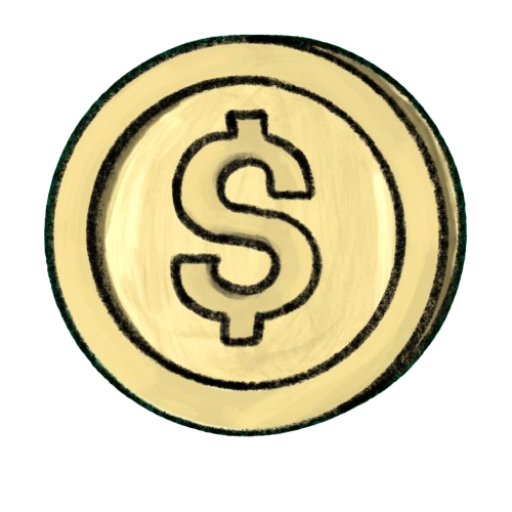
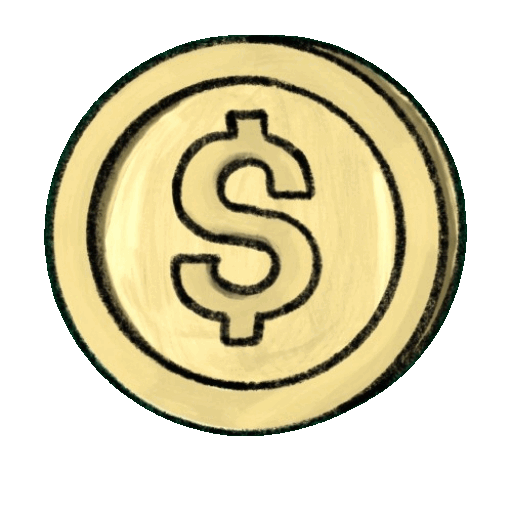
perf: eliminate first-navigation jank and self-host fonts
Port of garretpatten.com#75 (perf/first-load) to this site:

- Remove per-section soft-enter from About/Books; navigation now animates
  once via route-swap (shortened 420ms -> 260ms, 12px -> 8px shift)
- Self-host Libre Baskerville (400/700/italic) + JetBrains Mono woff2
  (latin subset, ~87KB total) with font-display swap; preload
  Libre Baskerville + JetBrains Mono; drop the render-blocking Google
  Fonts stylesheet and preconnects
- Compress landing hero 4.5MB PNG -> 66KB 960x790 WebP with intrinsic
  dimensions; palette-reduce android-chrome-512 icon 304KB -> 83KB
- Route views were already statically imported, so no lazy-chunk fetch
  existed to eliminate here; no CSP file exists, so no CSP change needed

diff --git a/src/assets/css/main.css b/src/assets/css/main.css
@@ -2,6 +2,45 @@
 @tailwind components;
 @tailwind utilities;
 
+/* Self-hosted fonts (latin subset, woff2) — replaces the render-blocking
+   Google Fonts stylesheet. Libre Baskerville 400 and 700 are served by
+   Google from the same latin file; JetBrains Mono is variable-weight. */
+@font-face {
+  font-family: "Libre Baskerville";
+  font-style: normal;
+  font-weight: 400 700;
+  font-display: swap;
+  src: url("/fonts/libre-baskerville-latin.woff2") format("woff2");
+  unicode-range:
+    U+0000-00FF, U+0131, U+0152-0153, U+02BB-02BC, U+02C6, U+02DA, U+02DC,
+    U+0304, U+0308, U+0329, U+2000-206F, U+20AC, U+2122, U+2191, U+2193, U+2212,
+    U+2215, U+FEFF, U+FFFD;
+}
+
+@font-face {
+  font-family: "Libre Baskerville";
+  font-style: italic;
+  font-weight: 400;
+  font-display: swap;
+  src: url("/fonts/libre-baskerville-italic-latin.woff2") format("woff2");
+  unicode-range:
+    U+0000-00FF, U+0131, U+0152-0153, U+02BB-02BC, U+02C6, U+02DA, U+02DC,
+    U+0304, U+0308, U+0329, U+2000-206F, U+20AC, U+2122, U+2191, U+2193, U+2212,
+    U+2215, U+FEFF, U+FFFD;
+}
+
+@font-face {
+  font-family: "JetBrains Mono";
+  font-style: normal;
+  font-weight: 100 800;
+  font-display: swap;
+  src: url("/fonts/jetbrains-mono-latin.woff2") format("woff2");
+  unicode-range:
+    U+0000-00FF, U+0131, U+0152-0153, U+02BB-02BC, U+02C6, U+02DA, U+02DC,
+    U+0304, U+0308, U+0329, U+2000-206F, U+20AC, U+2122, U+2191, U+2193, U+2212,
+    U+2215, U+FEFF, U+FFFD;
+}
+
 :root {
   --motion-ease-standard: cubic-bezier(0.22, 1, 0.36, 1);
   --motion-ease-emphasized: cubic-bezier(0.2, 0, 0, 1);
@@ -99,18 +138,18 @@
   .route-swap-enter-active,
   .route-swap-leave-active {
     transition:
-      opacity 420ms var(--motion-ease-standard),
-      transform 420ms var(--motion-ease-standard);
+      opacity 260ms var(--motion-ease-standard),
+      transform 260ms var(--motion-ease-standard);
   }
 
   .route-swap-enter-from {
     opacity: 0;
-    transform: translateY(12px);
+    transform: translateY(8px);
   }
 
   .route-swap-leave-to {
     opacity: 0;
-    transform: translateY(-10px);
+    transform: translateY(-8px);
   }
 
   .menu-enter-active,

diff --git a/index.html b/index.html
@@ -15,11 +15,19 @@
     />
     <meta property="og:type" content="website" />
     <meta name="color-scheme" content="dark" />
-    <link rel="preconnect" href="https://fonts.googleapis.com" />
-    <link rel="preconnect" href="https://fonts.gstatic.com" crossorigin />
     <link
-      rel="stylesheet"
-      href="https://fonts.googleapis.com/css2?family=Libre+Baskerville:ital,wght@0,400;0,700;1,400&family=JetBrains+Mono:wght@400;500&display=swap"
+      rel="preload"
+      href="/fonts/libre-baskerville-latin.woff2"
+      as="font"
+      type="font/woff2"
+      crossorigin
+    />
+    <link
+      rel="preload"
+      href="/fonts/jetbrains-mono-latin.woff2"
+      as="font"
+      type="font/woff2"
+      crossorigin
     />
     <style>
       html,

diff --git a/src/views/AboutView.vue b/src/views/AboutView.vue
@@ -2,7 +2,7 @@
   <div class="max-w-3xl mx-2 sm:mx-auto">
     <h1 class="sr-only">About the Author</h1>
 
-    <div class="mb-8 soft-enter flex justify-center">
+    <div class="mb-8 flex justify-center">
       <div class="rounded-full bg-terracotta p-1.5">
         <img
           src="/assets/images/maureen-patten.jpg"
@@ -12,7 +12,7 @@
       </div>
     </div>
 
-    <div class="max-w-none soft-enter soft-enter-delay-1">
+    <div class="max-w-none">
       <p class="font-sans text-lg text-gray-100 leading-relaxed mb-6">
         Maureen Patten is the author and illustrator of the
         <em class="text-gray-100">Fin and Nance</em> children’s book series.

diff --git a/src/views/LandingView.vue b/src/views/LandingView.vue
@@ -10,8 +10,11 @@
         story-driven adventure for children aged 6–10.
       </p>
       <img
-        src="/assets/images/fin-and-nance.png"
+        src="/assets/images/fin-and-nance.webp"
         alt="Fin and Nance characters"
+        width="960"
+        height="790"
+        decoding="async"
         class="mx-auto w-full max-w-[480px]"
       />
     </section>

diff --git a/src/views/BooksView.vue b/src/views/BooksView.vue
@@ -2,7 +2,7 @@
   <div class="max-w-4xl mx-auto">
     <h1 class="sr-only">Books</h1>
 
-    <section aria-labelledby="store-heading" class="soft-enter">
+    <section aria-labelledby="store-heading">
       <div class="text-center mb-10">
         <h2
           id="store-heading"

diff --git a/README.md b/README.md
@@ -3,7 +3,7 @@
 [![License: MIT](https://img.shields.io/github/license/garretpatten/finandnance.com?style=flat-square)](./LICENSE)
 [![Tests](https://img.shields.io/github/actions/workflow/status/garretpatten/finandnance.com/unit-tests.yaml?branch=master&label=tests&logo=github&style=flat-square)](https://github.com/garretpatten/finandnance.com/actions/workflows/unit-tests.yaml)
 
-![Fin and Nance hero](public/assets/images/fin-and-nance.png)
+![Fin and Nance hero](public/assets/images/fin-and-nance.webp)
 
 > A children's book series that makes money lessons simple, friendly, and fun.
 
